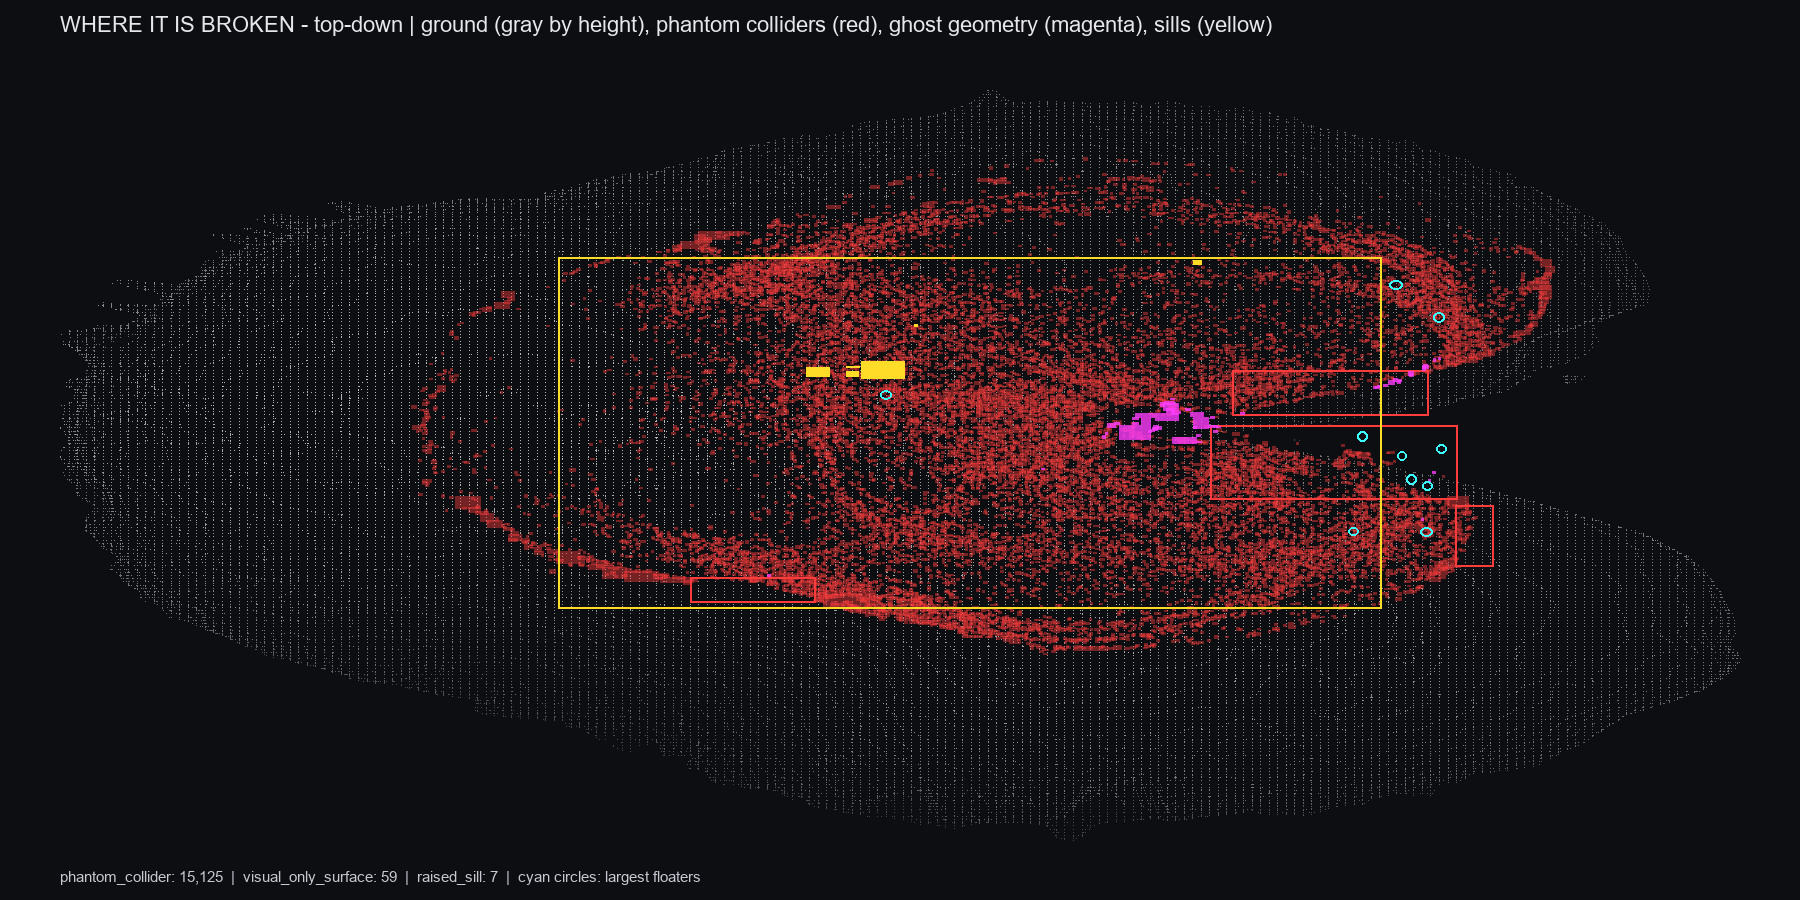
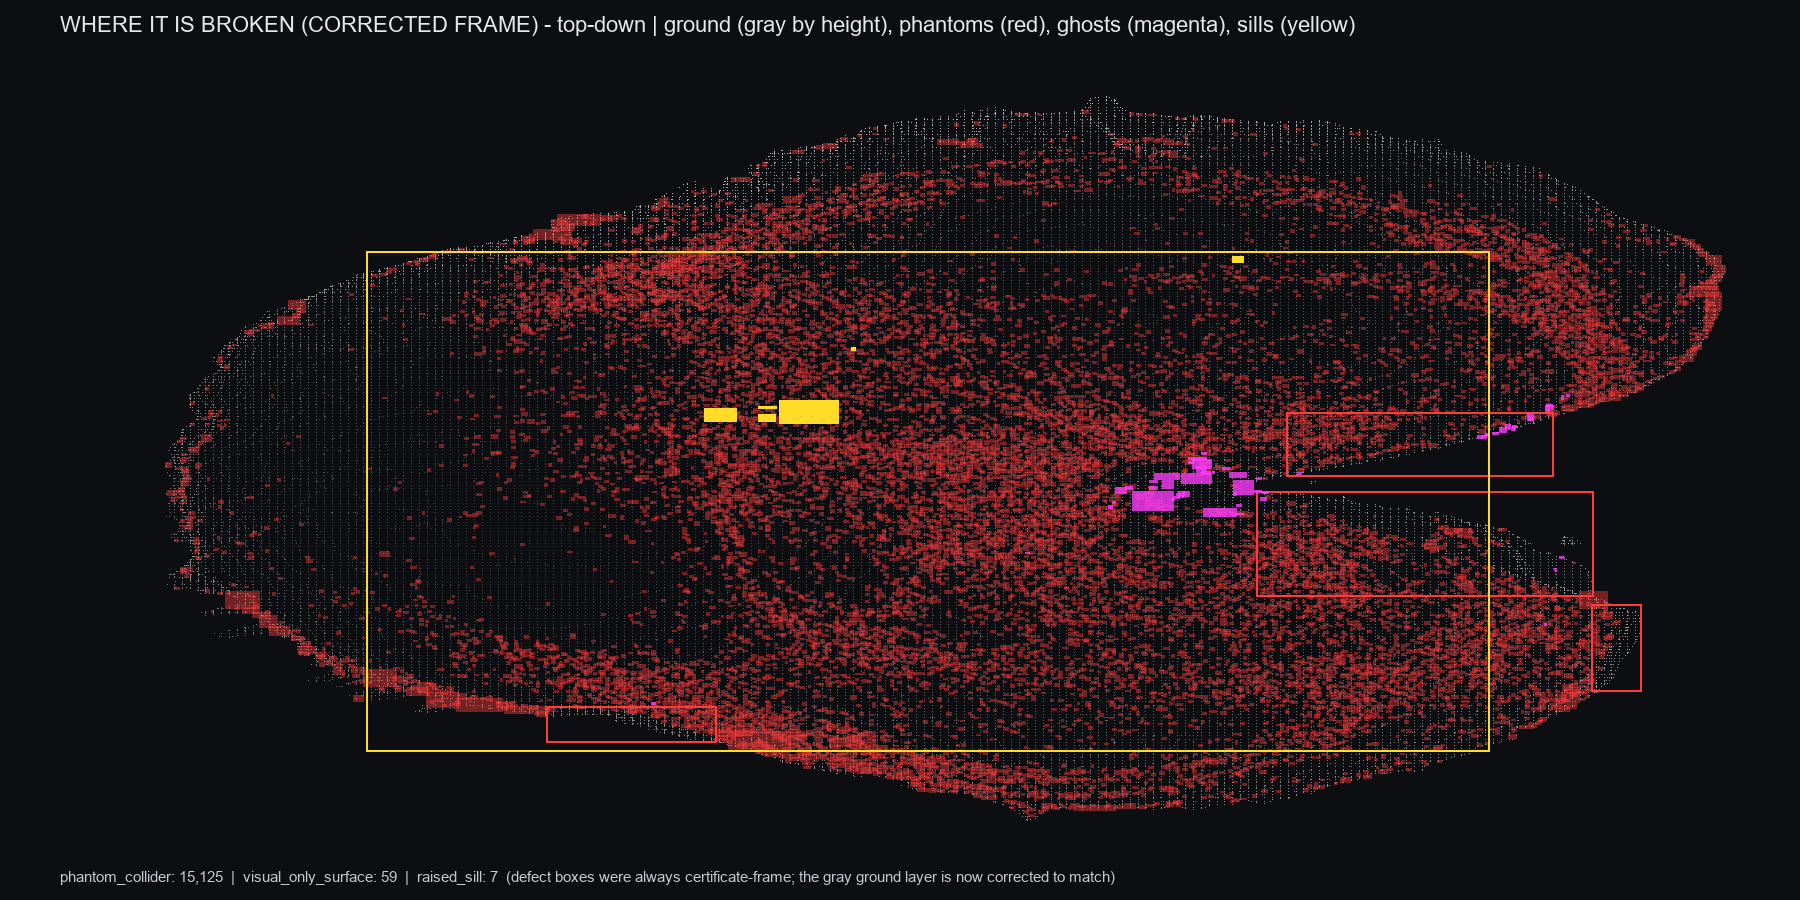
Sojourner E10: RETRACT E9 — GLB node matrix (Y/Z flip, 0.68 scale) ignored by ad-hoc renderer; certificates were always correct-frame; corrected proofs banked

Changed region(s): [[0.0933, 0.1244, 0.9644, 0.9022], [0.1556, 0.0, 0.7467, 0.0622], [0.28, 0.9644, 0.6222, 0.9956]]

diff --git a/sojourner/notes/error-ledger.md b/sojourner/notes/error-ledger.md
@@ -163,3 +163,27 @@ fix:       BUILDABLE: rasterize the 1.2M summit points into a heightfield
 carries:   event-day MUST: multi-level / terrace-aware floor detection, and
            a "visual-mass vs collider-mass per region" check — the summit
            imbalance (1.2M : 267) is a one-line detector nobody had.
+
+## E10 — RETRACTION of E9 + the frame bug that caused it        (2026-07-15)
+stage:     evidence / tooling  (user-caught: "are you sure they aren't flipped?")
+symptom:   E9 ("unbuilt summit", 1.2M pts vs 267 verts) and the "phantom
+           shell floating above the summit" were artifacts of the ad-hoc
+           proof RENDERER, not the world. The app-export GLB carries a root
+           node matrix (uniform scale 0.6797, Y and Z FLIPPED, +3.056 m Y);
+           the quick python parser read raw accessors and ignored it.
+truth:     - repo loadColliderGlb applies node transforms correctly ->
+             ALL certificate numbers were computed in the true frame and
+             STAND (15,125 phantoms, 26% divergent, 59 ghosts, 1 hole, dome).
+           - corrected summit crop: 653 collider verts at y -2..+1 under the
+             splat ground at y~0 — the summit IS meshed (sparse, ~1.2 m).
+           - global alignment: median visualTop-colliderTop = +0.44 m,
+             58% of shared 1 m cells within +/-1 m. Physics follows terrain.
+fix:       all proof images re-rendered in the corrected frame; 3D artifact
+           republished; renderer scripts must ALWAYS apply glTF node
+           transforms (matrix in scene graph, not in the accessors).
+carries:   1) any ad-hoc reader of vendor files must respect the scene
+           graph — add a frame-agreement smoke test (alignment score)
+           BEFORE trusting any cross-representation claim; 2) the certifier
+           itself never made this mistake — the lesson is about side
+           tooling; 3) adversarial review of your own evidence works:
+           the user's one-line skepticism caught what three renders missed.
